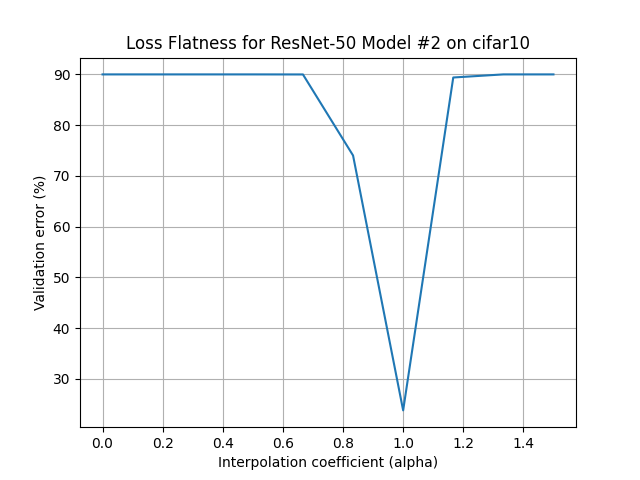
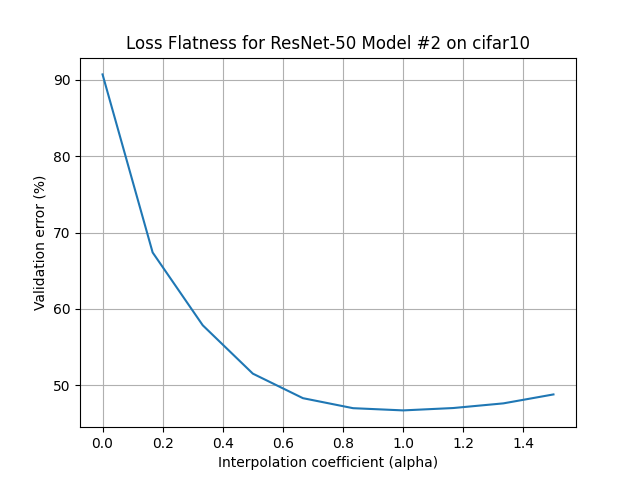
new kmnist dataset and plots

diff --git a/main.py b/main.py
@@ -2,7 +2,7 @@
 
 import torch
 from torch import optim
-from ConvolutionNeuralNetwork import ResNet50
+from NeuralNetwork import NeuralNetwork
 import torch.nn.functional as F
 import os
 import matplotlib.pyplot as plt
@@ -18,7 +18,7 @@ os.makedirs(PLOTS_DIR, exist_ok=True)
 
 
 def train(
-    model, train_loader, val_loader, optimizer, device, max_epochs=50, patience=5
+    model, train_loader, val_loader, optimizer, device, max_epochs=50, patience=3
 ):
     best_val_loss = float("inf")
     epochs_no_improve = 0
@@ -99,7 +99,15 @@ def validation(model, device, validation_loader, quiet=False):
 
 
 def plot_flatness(
-    model, test_loader, device, initial_params, final_params, model_id, flag, dataset
+    model,
+    test_loader,
+    device,
+    initial_params,
+    final_params,
+    model_id,
+    flag,
+    dataset,
+    optimizer,
 ):
     os.makedirs(os.path.join(PLOTS_DIR, dataset), exist_ok=True)
     v_err = []
@@ -118,13 +126,9 @@ def plot_flatness(
     plt.plot(alpha_v, v_err)
     plt.xlabel("Interpolation coefficient (alpha)")
     plt.ylabel("Validation error (%)")
-    plt.title(f"Loss Flatness for ResNet-50 Model #{model_id} on {dataset}")
+    plt.title(f"Loss Flatness for Model #{model_id} on {dataset}")
     plt.grid(True)
-    fname = (
-        f"flatness_plot_resnet50_model_{model_id}.png"
-        if not flag
-        else f"flatness_plot_fractional_resnet50_model_{model_id}.png"
-    )
+    fname = f"flatness_plot_model_{model_id}_using_{optimizer}.png"
     plt.savefig(os.path.join(PLOTS_DIR, dataset, fname))
     plt.close()
 
@@ -180,9 +184,9 @@ if __name__ == "__main__":
     parser.add_argument(
         "--data",
         type=str,
-        choices=["fashion-mnist", "cifar10", "cifar100"],
+        choices=["fashion-mnist", "cifar10", "cifar100", "kmnist"],
         default="fashion-mnist",
-        help="Dataset to use: fashion-mnist, cifar10, or cifar100",
+        help="Dataset to use: fashion-mnist, cifar10, kmnist, or cifar100",
     )
     args = parser.parse_args()
 
@@ -199,7 +203,7 @@ if __name__ == "__main__":
         from data_utils import get_cifar10_loaders
 
         get_loader_fn = get_cifar10_loaders
-        in_channels = 3
+        in_dim = 3 * 32 * 32
         num_classes = 10
     elif args.data == "cifar100":
         from data_utils import get_cifar100_loaders
@@ -207,6 +211,12 @@ if __name__ == "__main__":
         get_loader_fn = get_cifar100_loaders
         in_channels = 3
         num_classes = 100
+    elif args.data == "kmnist":
+        from data_utils import get_kmnist_loaders
+
+        get_loader_fn = get_kmnist_loaders
+        in_dim = 28 * 28
+        num_classes = 10
 
     for seed in range(3):
         print(f"Training model #{seed} with optimizer: {args.optimizer}")
@@ -215,7 +225,7 @@ if __name__ == "__main__":
             data_dir=DATA_DIR, seed=seed
         )
 
-        model = ResNet50(num_classes=num_classes, in_channels=in_channels).to(device)
+        model = NeuralNetwork(input_dim=in_dim, num_classes=num_classes).to(device)
 
         # Select optimizer
         if args.optimizer == "sgd":
@@ -225,7 +235,7 @@ if __name__ == "__main__":
             optimizer = optim.Adam(model.parameters(), lr=0.001)
             flag = False
         elif args.optimizer == "fractional-sgd":
-            optimizer = FractionalSGD(model.parameters(), lr=0.01, alpha=1.5)
+            optimizer = FractionalSGD(model.parameters(), lr=0.01)
             flag = True
         elif args.optimizer == "fractional-adam":
             optimizer = GLAdam(model.parameters(), lr=0.001, alpha=0.8)
@@ -257,6 +267,7 @@ if __name__ == "__main__":
             model_id=seed,
             flag=flag,
             dataset=args.data,
+            optimizer=args.optimizer,
         )
 
         sharpness = compute_sharpness(model, nn.CrossEntropyLoss(), test_loader, device)

diff --git a/data_utils.py b/data_utils.py
@@ -1,6 +1,7 @@
 import torch
 from torchvision import datasets, transforms
-from torch.utils.data import DataLoader, random_split
+from torch.utils.data import DataLoader, random_split, TensorDataset
+from sklearn.datasets import make_blobs
 import os
 
 
@@ -79,6 +80,34 @@ def get_cifar100_loaders(data_dir="data/", batch_size=64, seed=42, val_split=0.1
         root=data_dir, train=True, download=True, transform=transform
     )
     test_dataset = datasets.CIFAR100(
+        root=data_dir, train=False, download=True, transform=transform
+    )
+
+    val_size = int(len(full_train_dataset) * val_split)
+    train_size = len(full_train_dataset) - val_size
+    train_dataset, val_dataset = random_split(
+        full_train_dataset, [train_size, val_size]
+    )
+
+    train_loader = DataLoader(train_dataset, batch_size=batch_size, shuffle=True)
+    val_loader = DataLoader(val_dataset, batch_size=batch_size, shuffle=False)
+    test_loader = DataLoader(test_dataset, batch_size=batch_size, shuffle=False)
+
+    return train_loader, val_loader, test_loader
+
+
+def get_kmnist_loaders(data_dir="data/", batch_size=64, seed=42, val_split=0.1):
+    """
+    Returns train, val, and test DataLoaders for the KMNIST dataset.
+    """
+    torch.manual_seed(seed)
+    transform = transforms.ToTensor()
+    os.makedirs(data_dir, exist_ok=True)
+
+    full_train_dataset = datasets.KMNIST(
+        root=data_dir, train=True, download=True, transform=transform
+    )
+    test_dataset = datasets.KMNIST(
         root=data_dir, train=False, download=True, transform=transform
     )
 

diff --git a/NeuralNetwork.py b/NeuralNetwork.py
@@ -1,0 +1,28 @@
+import torch
+import torch.nn as nn
+import torch.nn.functional as F
+
+
+class NeuralNetwork(nn.Module):
+    def __init__(self, input_dim=200, num_classes=3):
+        super(NeuralNetwork, self).__init__()
+
+        self.model = nn.Sequential(
+            nn.Linear(input_dim, 4096),
+            nn.ReLU(),
+            nn.Linear(4096, 2048),
+            nn.ReLU(),
+            nn.Linear(2048, 1024),
+            nn.ReLU(),
+            nn.Linear(1024, num_classes),
+        )
+
+    def forward(self, x):
+        x = x.view(x.size(0), -1)
+        return self.model(x)
+
+    def compute_loss(self, predictions, targets):
+        return F.cross_entropy(predictions, targets)
+
+    def backward_step(self, loss):
+        loss.backward()
